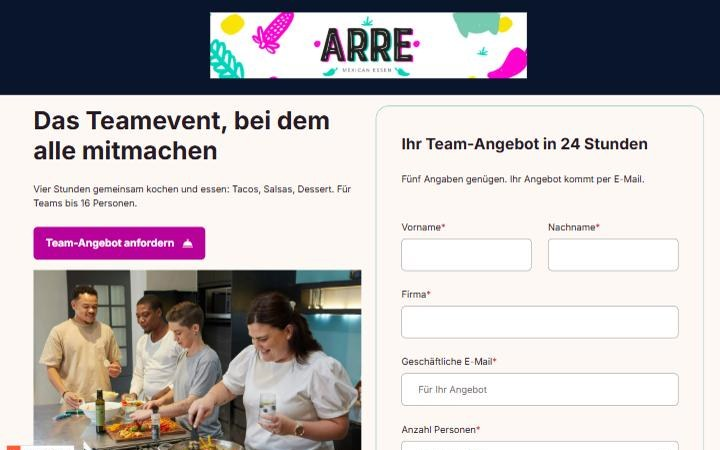
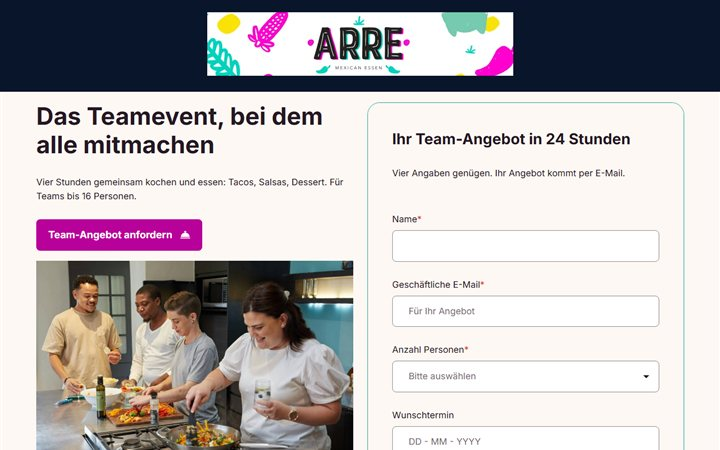
Arre: match the new HubSpot copy (value proposition, four-field form)
- Standalone page: new value proposition texts and plate icon,
  "Vier Angaben genügen" under the final button
- Case study: wireframe form and value boxes, Form view mockup with
  one Name field and no Firma, renumbered markers and updated tips
- Refreshed full-page screenshot and desktop hero image

diff --git a/assets/arre/landing-page.html b/assets/arre/landing-page.html
@@ -3002,7 +3002,7 @@ blockquote {
                 <div id="hs_cos_wrapper_widget_1794929639777" class="hs_cos_wrapper hs_cos_wrapper_widget hs_cos_wrapper_type_module" style="" data-hs-cos-general-type="widget" data-hs-cos-type="module">
                  <link rel="stylesheet" href="https://145747460.fs1.hubspotusercontent-eu1.net/hubfs/145747460/raw_assets/cms-elevate-theme/master/2327/js_client_assets/assets/index-09VGSRsQ.css"> 
                  <div class="hs-elevate-heading-container _hs-elevate-heading-container_1bnlv_1" style="--hsElevate--heading__textColor:var(--hsElevate--section--lightSection--1__textColor)">
-                  <h3 class="hs-elevate-h3 hs-elevate-heading-container__heading" style="text-align:center" data-hs-token="module.widget_1794929639777.headingAndTextHeading">Alle kochen mit</h3>
+                  <h3 class="hs-elevate-h3 hs-elevate-heading-container__heading" style="text-align:center" data-hs-token="module.widget_1794929639777.headingAndTextHeading">Alle machen mit</h3>
                  </div> 
                  <script type="text/javascript">
       window.__hsEnvConfig = {"hsDeployed":true,"hsEnv":"prod","hsJSRGates":["CMS:JSRenderer:GetServerSideProps","CMS:JSRenderer:EnvAllowlistRenderTime","CMS:JSRenderer:EnvAllowlist","CMS:JSRenderer:RemoveMockClientEntryPlugin"],"hublet":"eu1","portalID":149632227};
@@ -3022,7 +3022,7 @@ blockquote {
                 <div id="hs_cos_wrapper_widget_1794929604222" class="hs_cos_wrapper hs_cos_wrapper_widget hs_cos_wrapper_type_module" style="" data-hs-cos-general-type="widget" data-hs-cos-type="module">
                  <link rel="stylesheet" href="https://145747460.fs1.hubspotusercontent-eu1.net/hubfs/145747460/raw_assets/cms-elevate-theme/master/2327/js_client_assets/assets/index-AJ-XpXDx.css"> 
                  <div class="hs-elevate-rich-text _hs-elevate-rich-text_6uweg_1" style="--hsElevate--richText__textColor:var(--hsElevate--section--lightSection--1__textColor);--hsElevate--richText__accentColor:var(--hsElevate--section--lightSection--1__accentColor);--hsElevate--richText__linkColor:var(--hsElevate--section--lightSection--1--link__fontColor);--hsElevate--richText__textDecoration:var(--hsElevate--section--lightSection--1--link__textDecoration);--hsElevate--richText__textDecorationColor:var(--hsElevate--section--lightSection--1--link__textDecorationColor);--hsElevate--richText__linkHoverColor:var(--hsElevate--section--lightSection--1--link__hover--fontColor);--hsElevate--richText__linkHoverTextDecoration:var(--hsElevate--section--lightSection--1--link__hover--textDecoration);--hsElevate--richText__linkHoverTextDecorationColor:var(--hsElevate--section--lightSection--1--link__hover--textDecorationColor);--hsElevate--blockquote__textColor:var(--hsElevate--section--lightSection--1--blockquote__textColor);--hsElevate--blockquote__backgroundColor:var(--hsElevate--section--lightSection--1--blockquote__backgroundColor);--hsElevate--blockquote__accentColor:var(--hsElevate--section--lightSection--1--blockquote__accentColor)" data-hs-token="module.widget_1794929604222.richTextContentHTML">
-                  <p style="text-align: center;">Jede Person schneidet, rollt und würzt selbst. Niemand steht nur daneben.</p>
+                  <p style="text-align: center;">Niemand muss kochen können. Lissete zeigt jeden Schritt, und jede Person schneidet, rollt und würzt selbst.</p>
                  </div> 
                  <script type="text/javascript">
       window.__hsEnvConfig = {"hsDeployed":true,"hsEnv":"prod","hsJSRGates":["CMS:JSRenderer:GetServerSideProps","CMS:JSRenderer:EnvAllowlistRenderTime","CMS:JSRenderer:EnvAllowlist","CMS:JSRenderer:RemoveMockClientEntryPlugin"],"hublet":"eu1","portalID":149632227};
@@ -3076,7 +3076,7 @@ blockquote {
                 <div id="hs_cos_wrapper_widget_1794929696696" class="hs_cos_wrapper hs_cos_wrapper_widget hs_cos_wrapper_type_module" style="" data-hs-cos-general-type="widget" data-hs-cos-type="module">
                  <link rel="stylesheet" href="https://145747460.fs1.hubspotusercontent-eu1.net/hubfs/145747460/raw_assets/cms-elevate-theme/master/2327/js_client_assets/assets/index-09VGSRsQ.css"> 
                  <div class="hs-elevate-heading-container _hs-elevate-heading-container_1bnlv_1" style="--hsElevate--heading__textColor:var(--hsElevate--section--lightSection--1__textColor)">
-                  <h3 class="hs-elevate-h3 hs-elevate-heading-container__heading" style="text-align:center" data-hs-token="module.widget_1794929696696.headingAndTextHeading">Bei Ihnen oder im Studio</h3>
+                  <h3 class="hs-elevate-h3 hs-elevate-heading-container__heading" style="text-align:center" data-hs-token="module.widget_1794929696696.headingAndTextHeading">Sie planen nichts</h3>
                  </div> 
                  <script type="text/javascript">
       window.__hsEnvConfig = {"hsDeployed":true,"hsEnv":"prod","hsJSRGates":["CMS:JSRenderer:GetServerSideProps","CMS:JSRenderer:EnvAllowlistRenderTime","CMS:JSRenderer:EnvAllowlist","CMS:JSRenderer:RemoveMockClientEntryPlugin"],"hublet":"eu1","portalID":149632227};
@@ -3096,7 +3096,7 @@ blockquote {
                 <div id="hs_cos_wrapper_widget_1794929727882" class="hs_cos_wrapper hs_cos_wrapper_widget hs_cos_wrapper_type_module" style="" data-hs-cos-general-type="widget" data-hs-cos-type="module">
                  <link rel="stylesheet" href="https://145747460.fs1.hubspotusercontent-eu1.net/hubfs/145747460/raw_assets/cms-elevate-theme/master/2327/js_client_assets/assets/index-AJ-XpXDx.css"> 
                  <div class="hs-elevate-rich-text _hs-elevate-rich-text_6uweg_1" style="--hsElevate--richText__textColor:var(--hsElevate--section--lightSection--1__textColor);--hsElevate--richText__accentColor:var(--hsElevate--section--lightSection--1__accentColor);--hsElevate--richText__linkColor:var(--hsElevate--section--lightSection--1--link__fontColor);--hsElevate--richText__textDecoration:var(--hsElevate--section--lightSection--1--link__textDecoration);--hsElevate--richText__textDecorationColor:var(--hsElevate--section--lightSection--1--link__textDecorationColor);--hsElevate--richText__linkHoverColor:var(--hsElevate--section--lightSection--1--link__hover--fontColor);--hsElevate--richText__linkHoverTextDecoration:var(--hsElevate--section--lightSection--1--link__hover--textDecoration);--hsElevate--richText__linkHoverTextDecorationColor:var(--hsElevate--section--lightSection--1--link__hover--textDecorationColor);--hsElevate--blockquote__textColor:var(--hsElevate--section--lightSection--1--blockquote__textColor);--hsElevate--blockquote__backgroundColor:var(--hsElevate--section--lightSection--1--blockquote__backgroundColor);--hsElevate--blockquote__accentColor:var(--hsElevate--section--lightSection--1--blockquote__accentColor)" data-hs-token="module.widget_1794929727882.richTextContentHTML">
-                  <p style="text-align: center;"><span style="color: #261a24; text-align: center; background-color: #fdf8f3;">Lissete kommt in Ihre Büroküche oder empfängt Sie im Kochstudio in Charlottenburg.</span></p>
+                  <p style="text-align: center;"><span style="color: #261a24; text-align: center; background-color: #fdf8f3;">Ein Ansprechpartner, ein Preis, eine Rechnung, ab [€__] pro Person. Lissete kommt in Ihr Büro oder empfängt Sie im Studio in Charlottenburg.</span></p>
                  </div> 
                  <script type="text/javascript">
       window.__hsEnvConfig = {"hsDeployed":true,"hsEnv":"prod","hsJSRGates":["CMS:JSRenderer:GetServerSideProps","CMS:JSRenderer:EnvAllowlistRenderTime","CMS:JSRenderer:EnvAllowlist","CMS:JSRenderer:RemoveMockClientEntryPlugin"],"hublet":"eu1","portalID":149632227};
@@ -3119,11 +3119,7 @@ blockquote {
                 <div id="hs_cos_wrapper_module_1794919739359" class="hs_cos_wrapper hs_cos_wrapper_widget hs_cos_wrapper_type_module" style="" data-hs-cos-general-type="widget" data-hs-cos-type="module"> 
                  <div class="icon-wrapper"> 
                   <span id="hs_cos_wrapper_module_1794919739359_" class="hs_cos_wrapper hs_cos_wrapper_widget hs_cos_wrapper_type_icon icon" style="" data-hs-cos-general-type="widget" data-hs-cos-type="icon">
-                   <svg version="1.0" xmlns="http://www.w3.org/2000/svg" viewbox="0 0 384 512" aria-hidden="true">
-                    <g id="Receipt3_layer">
-                     <path d="M14 2.2C22.5-1.7 32.5-.3 39.6 5.8L80 40.4 120.4 5.8c9-7.7 22.3-7.7 31.2 0L192 40.4 232.4 5.8c9-7.7 22.3-7.7 31.2 0L304 40.4 344.4 5.8c7.1-6.1 17.1-7.5 25.6-3.6s14 12.4 14 21.8V488c0 9.4-5.5 17.9-14 21.8s-18.5 2.5-25.6-3.6L304 471.6l-40.4 34.6c-9 7.7-22.3 7.7-31.2 0L192 471.6l-40.4 34.6c-9 7.7-22.3 7.7-31.2 0L80 471.6 39.6 506.2c-7.1 6.1-17.1 7.5-25.6 3.6S0 497.4 0 488V24C0 14.6 5.5 6.1 14 2.2zM96 144c-8.8 0-16 7.2-16 16s7.2 16 16 16H288c8.8 0 16-7.2 16-16s-7.2-16-16-16H96zM80 352c0 8.8 7.2 16 16 16H288c8.8 0 16-7.2 16-16s-7.2-16-16-16H96c-8.8 0-16 7.2-16 16zM96 240c-8.8 0-16 7.2-16 16s7.2 16 16 16H288c8.8 0 16-7.2 16-16s-7.2-16-16-16H96z" />
-                    </g>
-                   </svg></span> 
+                   <svg version="1.0" xmlns="http://www.w3.org/2000/svg" viewbox="0 0 512 512" aria-hidden="true"><g id="Plate Wheat3_layer"><path d="M176 32c44.2 0 80 35.8 80 80v16c0 8.8-7.2 16-16 16c-44.2 0-80-35.8-80-80V48c0-8.8 7.2-16 16-16zM56 64h48c13.3 0 24 10.7 24 24s-10.7 24-24 24H56c-13.3 0-24-10.7-24-24s10.7-24 24-24zM24 136H136c13.3 0 24 10.7 24 24s-10.7 24-24 24H24c-13.3 0-24-10.7-24-24s10.7-24 24-24zm8 96c0-13.3 10.7-24 24-24h48c13.3 0 24 10.7 24 24s-10.7 24-24 24H56c-13.3 0-24-10.7-24-24zM272 48c0-8.8 7.2-16 16-16c44.2 0 80 35.8 80 80v16c0 8.8-7.2 16-16 16c-44.2 0-80-35.8-80-80V48zM400 32c44.2 0 80 35.8 80 80v16c0 8.8-7.2 16-16 16c-44.2 0-80-35.8-80-80V48c0-8.8 7.2-16 16-16zm80 160v16c0 44.2-35.8 80-80 80c-8.8 0-16-7.2-16-16V256c0-44.2 35.8-80 80-80c8.8 0 16 7.2 16 16zM352 176c8.8 0 16 7.2 16 16v16c0 44.2-35.8 80-80 80c-8.8 0-16-7.2-16-16V256c0-44.2 35.8-80 80-80zm-96 16v16c0 44.2-35.8 80-80 80c-8.8 0-16-7.2-16-16V256c0-44.2 35.8-80 80-80c8.8 0 16 7.2 16 16zM3.5 347.6C1.6 332.9 13 320 27.8 320H484.2c14.8 0 26.2 12.9 24.4 27.6C502.3 397.8 464.2 437 416 446v2c0 17.7-14.3 32-32 32H128c-17.7 0-32-14.3-32-32v-2c-48.2-9-86.3-48.2-92.5-98.4z" /></g></svg></span> 
                  </div>
                 </div> 
                </div>
@@ -3150,7 +3146,7 @@ blockquote {
                 <div id="hs_cos_wrapper_widget_1794929711210" class="hs_cos_wrapper hs_cos_wrapper_widget hs_cos_wrapper_type_module" style="" data-hs-cos-general-type="widget" data-hs-cos-type="module">
                  <link rel="stylesheet" href="https://145747460.fs1.hubspotusercontent-eu1.net/hubfs/145747460/raw_assets/cms-elevate-theme/master/2327/js_client_assets/assets/index-09VGSRsQ.css"> 
                  <div class="hs-elevate-heading-container _hs-elevate-heading-container_1bnlv_1" style="--hsElevate--heading__textColor:var(--hsElevate--section--lightSection--1__textColor)">
-                  <h3 class="hs-elevate-h3 hs-elevate-heading-container__heading" style="text-align:center" data-hs-token="module.widget_1794929711210.headingAndTextHeading">Ein Angebot fürs ganze Team</h3>
+                  <h3 class="hs-elevate-h3 hs-elevate-heading-container__heading" style="text-align:center" data-hs-token="module.widget_1794929711210.headingAndTextHeading">Am Ende essen alle zusammen</h3>
                  </div> 
                  <script type="text/javascript">
       window.__hsEnvConfig = {"hsDeployed":true,"hsEnv":"prod","hsJSRGates":["CMS:JSRenderer:GetServerSideProps","CMS:JSRenderer:EnvAllowlistRenderTime","CMS:JSRenderer:EnvAllowlist","CMS:JSRenderer:RemoveMockClientEntryPlugin"],"hublet":"eu1","portalID":149632227};
@@ -3170,7 +3166,7 @@ blockquote {
                 <div id="hs_cos_wrapper_widget_1794929748651" class="hs_cos_wrapper hs_cos_wrapper_widget hs_cos_wrapper_type_module" style="" data-hs-cos-general-type="widget" data-hs-cos-type="module">
                  <link rel="stylesheet" href="https://145747460.fs1.hubspotusercontent-eu1.net/hubfs/145747460/raw_assets/cms-elevate-theme/master/2327/js_client_assets/assets/index-AJ-XpXDx.css"> 
                  <div class="hs-elevate-rich-text _hs-elevate-rich-text_6uweg_1" style="--hsElevate--richText__textColor:var(--hsElevate--section--lightSection--1__textColor);--hsElevate--richText__accentColor:var(--hsElevate--section--lightSection--1__accentColor);--hsElevate--richText__linkColor:var(--hsElevate--section--lightSection--1--link__fontColor);--hsElevate--richText__textDecoration:var(--hsElevate--section--lightSection--1--link__textDecoration);--hsElevate--richText__textDecorationColor:var(--hsElevate--section--lightSection--1--link__textDecorationColor);--hsElevate--richText__linkHoverColor:var(--hsElevate--section--lightSection--1--link__hover--fontColor);--hsElevate--richText__linkHoverTextDecoration:var(--hsElevate--section--lightSection--1--link__hover--textDecoration);--hsElevate--richText__linkHoverTextDecorationColor:var(--hsElevate--section--lightSection--1--link__hover--textDecorationColor);--hsElevate--blockquote__textColor:var(--hsElevate--section--lightSection--1--blockquote__textColor);--hsElevate--blockquote__backgroundColor:var(--hsElevate--section--lightSection--1--blockquote__backgroundColor);--hsElevate--blockquote__accentColor:var(--hsElevate--section--lightSection--1--blockquote__accentColor)" data-hs-token="module.widget_1794929748651.richTextContentHTML">
-                  <p style="text-align: center;"><span style="color: #261a24; text-align: center; background-color: #fdf8f3;">Ein Ansprechpartner, ein Preis: ab [€__] pro Person.</span></p>
+                  <p style="text-align: center;"><span style="color: #261a24; text-align: center; background-color: #fdf8f3;">Nach vier Stunden sitzt das Team an einem Tisch, mit Tacos, Salsas und Dessert, die es selbst gemacht hat.</span></p>
                  </div> 
                  <script type="text/javascript">
       window.__hsEnvConfig = {"hsDeployed":true,"hsEnv":"prod","hsJSRGates":["CMS:JSRenderer:GetServerSideProps","CMS:JSRenderer:EnvAllowlistRenderTime","CMS:JSRenderer:EnvAllowlist","CMS:JSRenderer:RemoveMockClientEntryPlugin"],"hublet":"eu1","portalID":149632227};
@@ -3391,7 +3387,7 @@ blockquote {
              <div id="hs_cos_wrapper_widget_1794926727353" class="hs_cos_wrapper hs_cos_wrapper_widget hs_cos_wrapper_type_module" style="" data-hs-cos-general-type="widget" data-hs-cos-type="module">
               <link rel="stylesheet" href="https://145747460.fs1.hubspotusercontent-eu1.net/hubfs/145747460/raw_assets/cms-elevate-theme/master/2327/js_client_assets/assets/index-AJ-XpXDx.css"> 
               <div class="hs-elevate-rich-text _hs-elevate-rich-text_6uweg_1" style="--hsElevate--richText__textColor:var(--hsElevate--section--lightSection--3__textColor);--hsElevate--richText__accentColor:var(--hsElevate--section--lightSection--3__accentColor);--hsElevate--richText__linkColor:var(--hsElevate--section--lightSection--3--link__fontColor);--hsElevate--richText__textDecoration:var(--hsElevate--section--lightSection--3--link__textDecoration);--hsElevate--richText__textDecorationColor:var(--hsElevate--section--lightSection--3--link__textDecorationColor);--hsElevate--richText__linkHoverColor:var(--hsElevate--section--lightSection--3--link__hover--fontColor);--hsElevate--richText__linkHoverTextDecoration:var(--hsElevate--section--lightSection--3--link__hover--textDecoration);--hsElevate--richText__linkHoverTextDecorationColor:var(--hsElevate--section--lightSection--3--link__hover--textDecorationColor);--hsElevate--blockquote__textColor:var(--hsElevate--section--lightSection--3--blockquote__textColor);--hsElevate--blockquote__backgroundColor:var(--hsElevate--section--lightSection--3--blockquote__backgroundColor);--hsElevate--blockquote__accentColor:var(--hsElevate--section--lightSection--3--blockquote__accentColor)" data-hs-token="module.widget_1794926727353.richTextContentHTML">
-               <p style="text-align: center;">Kostenlos und unverbindlich. Fünf Angaben genügen.</p>
+               <p style="text-align: center;">Kostenlos und unverbindlich. Vier Angaben genügen.</p>
               </div> 
               <script type="text/javascript">
       window.__hsEnvConfig = {"hsDeployed":true,"hsEnv":"prod","hsJSRGates":["CMS:JSRenderer:GetServerSideProps","CMS:JSRenderer:EnvAllowlistRenderTime","CMS:JSRenderer:EnvAllowlist","CMS:JSRenderer:RemoveMockClientEntryPlugin"],"hublet":"eu1","portalID":149632227};

diff --git a/projects/arre-landing-page.html b/projects/arre-landing-page.html
@@ -134,11 +134,10 @@
             <!-- 6 form -->
             <rect class="wf-line" data-blk="6 b-teal" x="368" y="74" width="196" height="242" rx="10"/>
             <text class="wf-title" x="402" y="94" dominant-baseline="central">Form</text>
-            <rect class="wf-soft" x="380" y="110" width="172" height="22" rx="5"/><text class="wf-text wf-ph" x="390" y="121">Name</text>
-            <rect class="wf-soft" x="380" y="137" width="172" height="22" rx="5"/><text class="wf-text wf-ph" x="390" y="148">Company</text>
-            <rect class="wf-soft" x="380" y="164" width="172" height="22" rx="5"/><text class="wf-text wf-ph" x="390" y="175">Work email</text>
-            <rect class="wf-soft" x="380" y="191" width="172" height="22" rx="5"/><text class="wf-text wf-ph" x="390" y="202">Preferred date</text>
-            <rect class="wf-soft" x="380" y="218" width="172" height="22" rx="5"/><text class="wf-text wf-ph" x="390" y="229">Number of people</text>
+            <rect class="wf-soft" x="380" y="112" width="172" height="24" rx="5"/><text class="wf-text wf-ph" x="390" y="124">Name</text>
+            <rect class="wf-soft" x="380" y="144" width="172" height="24" rx="5"/><text class="wf-text wf-ph" x="390" y="156">Work email</text>
+            <rect class="wf-soft" x="380" y="176" width="172" height="24" rx="5"/><text class="wf-text wf-ph" x="390" y="188">Number of people</text>
+            <rect class="wf-soft" x="380" y="208" width="172" height="24" rx="5"/><text class="wf-text wf-ph" x="390" y="220">Preferred date</text>
             <!-- 5 form button -->
             <rect class="wf-btn" data-blk="5 b-pink" x="380" y="250" width="172" height="26" rx="6"/>
             <text class="wf-btn-text" x="466" y="263">Team-Angebot anfordern</text>
@@ -151,12 +150,12 @@
             <rect class="wf-line" data-blk="3" x="36" y="356" width="170" height="60" rx="10"/>
             <rect class="wf-line" data-blk="3" x="215" y="356" width="170" height="60" rx="10"/>
             <rect class="wf-line" data-blk="3" x="394" y="356" width="170" height="60" rx="10"/>
-            <text class="wf-title wf-sm" x="48" y="380">Everyone cooks</text>
-            <text class="wf-text wf-small" x="48" y="399">Nobody just watches</text>
-            <text class="wf-title wf-sm" x="227" y="380">Your office or the studio</text>
-            <text class="wf-text wf-small" x="227" y="399">Studio in Charlottenburg</text>
-            <text class="wf-title wf-sm" x="404" y="380">One contact, one invoice</text>
-            <text class="wf-text wf-small" x="404" y="399">One quote for the whole team</text>
+            <text class="wf-title wf-sm" x="48" y="380">Everyone joins in</text>
+            <text class="wf-text wf-small" x="48" y="399">No cooking skills needed</text>
+            <text class="wf-title wf-sm" x="227" y="380">You plan nothing</text>
+            <text class="wf-text wf-small" x="227" y="399">One contact, price, invoice</text>
+            <text class="wf-title wf-sm" x="404" y="380">Everyone eats together</text>
+            <text class="wf-text wf-small" x="404" y="399">The tacos they made</text>
             <!-- 4 social proof -->
             <text class="wf-tag" x="62" y="438">Social proof</text>
             <rect class="wf-fill" data-blk="4 b-teal" x="36" y="454" width="528" height="64" rx="10"/>
@@ -198,19 +197,14 @@
             <p class="step-label">Step 1 · Request</p>
             <div class="mock" aria-label="Mockup of the quote form">
               <h3>Ihr Team-Angebot in 24 Stunden</h3>
-              <p class="m-intro">Fünf Angaben genügen. Ihr Angebot kommt per E-Mail.</p>
-              <div class="m-row m-field">
-                <div><label>Vorname<i>*</i></label><div class="m-input"></div></div>
-                <div><label>Nachname<i>*</i></label><div class="m-input"></div></div>
-                <span class="pin" data-tip="f1">1</span>
-              </div>
-              <div class="m-field"><label>Firma<i>*</i></label><div class="m-input"></div><span class="pin" data-tip="f2">2</span></div>
-              <div class="m-field"><label>Geschäftliche E-Mail<i>*</i></label><div class="m-input">Für Ihr Angebot</div><span class="pin" data-tip="f3">3</span></div>
-              <div class="m-field"><label>Anzahl Personen<i>*</i></label><div class="m-input m-select">Bitte auswählen</div><span class="pin" data-tip="f4">4</span></div>
-              <div class="m-field"><label>Wunschtermin</label><div class="m-input">DD - MM - YYYY</div><span class="pin" data-tip="f5">5</span></div>
-              <div class="m-check">Ja, ich möchte über neue Kurstermine informiert werden.<span class="pin" data-tip="f6">6</span></div>
-              <p class="m-note">Kostenlos und unverbindlich. Wir nutzen Ihre Angaben nur für Ihr Angebot. Mehr in unserer <u>Datenschutzerklärung</u>.<span class="pin" data-tip="f7">7</span></p>
-              <span class="m-btn">Team-Angebot anfordern<span class="pin" data-tip="f8">8</span></span>
+              <p class="m-intro">Vier Angaben genügen. Ihr Angebot kommt per E-Mail.</p>
+              <div class="m-field"><label>Name<i>*</i></label><div class="m-input"></div><span class="pin" data-tip="f1">1</span></div>
+              <div class="m-field"><label>Geschäftliche E-Mail<i>*</i></label><div class="m-input">Für Ihr Angebot</div><span class="pin" data-tip="f2">2</span></div>
+              <div class="m-field"><label>Anzahl Personen<i>*</i></label><div class="m-input m-select">Bitte auswählen</div><span class="pin" data-tip="f3">3</span></div>
+              <div class="m-field"><label>Wunschtermin</label><div class="m-input">DD - MM - YYYY</div><span class="pin" data-tip="f4">4</span></div>
+              <div class="m-check">Ja, ich möchte über neue Kurstermine informiert werden.<span class="pin" data-tip="f5">5</span></div>
+              <p class="m-note">Kostenlos und unverbindlich. Wir nutzen Ihre Angaben nur für Ihr Angebot. Mehr in unserer <u>Datenschutzerklärung</u>.<span class="pin" data-tip="f6">6</span></p>
+              <span class="m-btn">Team-Angebot anfordern<span class="pin" data-tip="f7">7</span></span>
             </div>
           </figure>
           <div class="flow-arrow" aria-hidden="true"><svg viewBox="0 0 24 24"><path d="M4 12h15M13 6l6 6-6 6"/></svg></div>
@@ -219,7 +213,7 @@
             <div class="mock mock-thanks" aria-label="Mockup of the thank-you message">
               <h3>Vielen Dank!</h3>
               <p>Ihre Anfrage ist angekommen. Sie erhalten Ihr Angebot innerhalb von 24 Stunden per E-Mail.</p>
-              <span class="pin" data-tip="f9">9</span>
+              <span class="pin" data-tip="f8">8</span>
             </div>
           </figure>
         </div>
@@ -244,21 +238,20 @@
         <div class="wf-tips" hidden>
           <div data-tip="1" data-title="Headline" data-q="Is this for me?">„Das Teamevent, bei dem alle mitmachen“ plus the subline „Vier Stunden gemeinsam kochen und essen: Tacos, Salsas, Dessert. Für Teams bis 16 Personen.“</div>
           <div data-tip="2" data-title="Hero image" data-q="What will it look like?">The result: colleagues cooking and laughing at one counter, not a photo of ingredients. Built with an Unsplash photo of four colleagues cooking (Sweet Life), plus a taco photo (Hybrid Storytellers) to show the Mexican food.</div>
-          <div data-tip="3" data-title="Value proposition" data-q="Why Arre?">Three benefits: everyone cooks · at your office or in the studio in Charlottenburg · one contact, one invoice. Price line: „ab [€__] pro Person“ (her public Birria class cost 80 € per person, Oct 2026).</div>
+          <div data-tip="3" data-title="Value proposition" data-q="Why Arre?">Three benefits: everyone joins in, no cooking skills needed · the team plans nothing: one contact, one price, one invoice, at the office or in the studio in Charlottenburg · at the end, everyone eats together. Price line: „ab [€__] pro Person“ (her public Birria class cost 80 € per person, Oct 2026).</div>
           <div data-tip="4" data-title="Social proof" data-q="Can I trust them?">„Unternehmen, die Arre gebucht haben“, with three real reviews from the Arre website (Claudia Z., BARMER · Carolin, Doering Media · Joost L., Kingdom of the Netherlands), shortened with […]. A note under the cards says they come from catering events.</div>
           <div data-tip="5" data-title="Call to action" data-q="What do I do now?">The button „Team-Angebot anfordern“ appears three times: under the subline, in the form and at the bottom. The two extra buttons jump to the form.</div>
-          <div data-tip="6" data-title="Form" data-q="How much effort is it?">Five fields in German: Vorname und Nachname, Firma, geschäftliche E-Mail, Anzahl Personen, Wunschtermin. <a href="#form">Open the Form view</a>.</div>
+          <div data-tip="6" data-title="Form" data-q="How much effort is it?">Four fields in German: Name, geschäftliche E-Mail, Anzahl Personen, Wunschtermin. <a href="#form">Open the Form view</a>.</div>
           <div data-tip="7" data-title="Reassurance" data-q="What happens after I click?">Above the form button: „Kostenlos und unverbindlich. Wir nutzen Ihre Angaben nur für Ihr Angebot.“ The 24 hours moved to the form heading and are an assumption.</div>
 
-          <div data-tip="f1" data-title="Name in one row">First and last name side by side keep the form short.</div>
-          <div data-tip="f2" data-title="Firma">Marks the request as a company booking and tells Arre who to invoice.</div>
-          <div data-tip="f3" data-title="Business email">The placeholder says why it’s needed: the quote goes there.</div>
-          <div data-tip="f4" data-title="Group size as a dropdown">bis 8 · 9–12 · 13–16 · mehr als 16. It sizes the quote and is quick to tap on a phone.</div>
-          <div data-tip="f5" data-title="Preferred date, optional">Many teams ask before they have a date.</div>
-          <div data-tip="f6" data-title="Course updates, optional and unticked">The request doesn’t depend on it.</div>
-          <div data-tip="f7" data-title="One line before the click">Answers “does it cost anything?” and “what happens to my data?”</div>
-          <div data-tip="f8" data-title="The button names the result">„Team-Angebot anfordern“, in the brand pink.</div>
-          <div data-tip="f9" data-title="The thank-you message">Confirms the request and sets the expectation: a quote by email within 24 hours.</div>
+          <div data-tip="f1" data-title="One name field">One field for the full name keeps the form short.</div>
+          <div data-tip="f2" data-title="Business email">The placeholder says why it’s needed: the quote goes there. The work address also shows the company, so there is no separate company field.</div>
+          <div data-tip="f3" data-title="Group size as a dropdown">bis 8 · 9–12 · 13–16 · mehr als 16. It sizes the quote and is quick to tap on a phone.</div>
+          <div data-tip="f4" data-title="Preferred date, optional">Many teams ask before they have a date.</div>
+          <div data-tip="f5" data-title="Course updates, optional and unticked">The request doesn’t depend on it.</div>
+          <div data-tip="f6" data-title="One line before the click">Answers “does it cost anything?” and “what happens to my data?”</div>
+          <div data-tip="f7" data-title="The button names the result">„Team-Angebot anfordern“, in the brand pink.</div>
+          <div data-tip="f8" data-title="The thank-you message">Confirms the request and sets the expectation: a quote by email within 24 hours.</div>
 
           <div data-tip="b-pink" data-title="Button pink · #B8009A" data-swatch="#B8009A">Buttons only. The logo pink with white text has only 3.4:1 contrast, so the buttons use this darker pink with 6:1.</div>
           <div data-tip="b-text" data-title="Text · #261A24" data-swatch="#261A24">Headings and body text: 16.7:1 contrast on white.</div>
